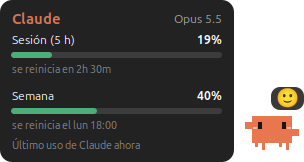
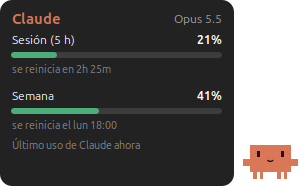
Cara expresiva en el muñeco (7 niveles), globito solo al hablar, más legible y con último mensaje en la tarjeta

diff --git a/claude-meter.py b/claude-meter.py
@@ -29,11 +29,11 @@ DATA = os.path.expanduser("~/.cache/claude-meter.json")
 ACTIVITY = os.path.expanduser("~/.cache/claude-meter-activity.json")  # lo escribe activity.py (hooks)
 WORK_STALE = 10 * 60    # "trabajando" sin eventos nuevos por más de esto: probablemente se cortó
 ASK_STALE = 2 * 3600    # una pregunta sin responder deja de mostrarse pasado esto
-ACTIVITY_TEXT = {"work": "Trabajando…", "ask": "Tengo una duda…"}
+ACTIVITY_TEXT = {"ask": "Tengo una duda…"}  # trabajando ya se ve: teclea
 
 # el muñeco "ve" lo que haces y comenta (se puede apagar con clic derecho)
 CHAT_EVERY = (150, 300)       # charla espontánea mientras estás: cada 2,5–5 min (al azar)
-CHAT_SHOW = 12                # segundos que se ve cada mensaje
+CHAT_SHOW = 30                # segundos que se ve cada mensaje (se pausa con el mouse encima)
 MIN_GAP = 25                  # nunca dos mensajes seguidos con menos de esto (salvo toque y festejo)
 AWAY_AFTER = 5 * 60           # sin teclado ni mouse por esto: te fuiste
 STREAK_BREAK = 50 * 60        # tiempo seguido frente a la pantalla antes de sugerir una pausa
@@ -119,19 +119,16 @@ FRAME_MS = 80
 LOOP = 6.6  # segundos; todo movimiento de la mascota se repite en este ciclo y así se dibuja una sola vez
 
 # ánimo según el mayor de los dos porcentajes: (hasta %, ánimo)
-MOODS = [(50, "happy"), (75, "ok"), (90, "tired"), (100, "sad")]
+MOODS = [(20, "great"), (40, "happy"), (60, "ok"), (75, "meh"), (90, "tired"), (100, "sad")]
 # carita del globito según el consumo (el mayor de sesión y semana): (hasta %, carita)
-FACES = [(20, "😄"), (40, "😊"), (60, "🙂"), (75, "😐"), (90, "😓"), (100, "😫")]
-FACE_EMPTY = "😵"
-FACE_SLEEP = "😴"
 
 CSS = b"""
 window { background-color: transparent; }
 .card { background-color: rgba(22, 22, 22, 0.95); border-radius: 12px; }
 .head { color: #d97757; font-weight: bold; }
-.bubble { color: #ffffff; font-size: 9pt; font-weight: bold; background-color: rgba(22, 22, 22, 0.85);
-          border-radius: 9px; padding: 2px 8px; }
-.bubble.face { font-size: 14pt; padding: 0 5px; }
+.bubble { color: #ffffff; font-size: 11pt; font-weight: bold; background-color: rgba(28, 28, 28, 0.97);
+          border: 2px solid #d97757; border-radius: 10px; padding: 5px 10px; }
+.lastmsg { color: #e8e8e8; font-size: 9pt; }
 .model { color: #a7a7a7; font-size: 9pt; }
 .name { color: #ffffff; font-size: 9pt; }
 .pct { color: #ffffff; font-weight: bold; font-size: 9pt; }
@@ -161,39 +158,61 @@ def until(epoch):
     return "{}h {:02d}m".format(h, m) if h else "{} min".format(m)
 
 
+# cara de cada ánimo: ojos, boca, cejas y extras (como un emoji, pero en el muñeco)
+FACE = {
+    "great": dict(eyes="arc", mouth="grin", blush=True),            # 😄
+    "happy": dict(eyes="round", mouth="smile", blush=True),         # 😊
+    "ok":    dict(eyes="round", mouth="small"),                     # 🙂
+    "meh":   dict(eyes="round", mouth="flat"),                      # 😐
+    "tired": dict(eyes="half", mouth="wavy", sweat=True),           # 😓
+    "sad":   dict(eyes="round", mouth="frown", brows="sad", tear=True),  # 😫
+    "empty": dict(eyes="x", mouth="wavy"),                          # 😵
+    "sleep": dict(eyes="closed", mouth="o"),                        # 😴
+    "work":  dict(eyes="down", mouth="small"),                      # concentrado
+    "ask":   dict(eyes="up", mouth="o", brows="raised"),            # pensando
+    "wave":  dict(eyes="arc", mouth="talk", blush=True),            # hablando
+}
+COLORS = {"great": "#ef7d52", "happy": "#e8774f", "ok": "#d97757", "meh": "#d08062", "tired": "#c98463",
+          "sad": "#b58c79", "empty": "#978a84", "sleep": "#b58c79"}
+
+
 def mascot_svg(mood, t, px=MASCOT, crop=True, tint="ok"):
     """Un cuadro del muñequito pixelado de Claude Code, en una caja de 56x56.
 
-    Rejilla de 18x5 celdas: cuerpo, dos ojitos, bracitos a los lados y cuatro patitas.
-    mood "work" (teclea) y "ask" (tiene una duda) toman el color del ánimo de uso que indica tint.
+    Rejilla de 18x5 celdas: cuerpo, dos ojitos, bracitos a los lados y cuatro patitas, más una cara
+    (cejas, boca, rubor, sudor, lágrima) que cambia con el ánimo.
+    mood "work" (teclea), "ask" (duda) y "wave" (habla) toman el color del ánimo de uso que indica tint.
     """
     ux, uy = 3, 6               # cada pixel es el doble de alto que de ancho, como las celdas de la terminal
     w = 2 * math.pi / LOOP      # frecuencias enteras de w: el ciclo cierra sin saltos
-    lively = mood in ("happy", "wave")
-    hop = -abs(math.sin(w * 3 * t)) * 5 if lively else 0
-    sway = round(math.sin(w * 2 * t)) * 0.5 if mood == "ok" else 0
+    lively = mood in ("great", "happy", "wave")
+    droopy = mood in ("tired", "sad", "empty")
+    hop = -abs(math.sin(w * 3 * t)) * (5 if mood != "happy" else 3) if lively else 0
+    sway = round(math.sin(w * 2 * t)) * 0.5 if mood in ("ok", "meh") else 0
     sink = {"tired": 2, "sad": 3, "empty": 5, "sleep": 3}.get(mood, 0)
-    breathe = math.sin(w * t * (1 if mood in ("sad", "empty", "sleep") else 2)) * 0.4
+    breathe = math.sin(w * t * (1 if droopy or mood == "sleep" else 2)) * 0.4
     x0 = 1 + sway * ux
     y0 = 14 + hop + sink
-    # se apaga el color a medida que se cansa
-    colors = {"happy": "#e8774f", "ok": "#d97757", "tired": "#c98463", "sad": "#b58c79",
-              "empty": "#978a84", "sleep": "#b58c79"}
-    color = colors.get(mood) or colors.get(tint, colors["ok"])
+    color = COLORS.get(mood) or COLORS.get(tint, COLORS["ok"])
     tap = math.sin(w * 22 * t) > 0  # alterna manos al teclear
     if mood == "work":
         y0 += 0.5 if tap else 0
-    hole = "#161616"
+    ink = "#161616"
+    face = FACE[mood]
 
     def px_rect(cx, cy, cw=1, ch=1, fill=None, extra=""):
         return '<rect x="{:.2f}" y="{:.2f}" width="{:.2f}" height="{:.2f}" fill="{}"{}/>'.format(
             x0 + cx * ux, y0 + cy * uy, cw * ux, ch * uy, fill or color, extra)
 
+    def stroke(d, width=1.2, fill="none"):
+        return ('<path d="{}" stroke="{}" stroke-width="{}" stroke-linecap="round" stroke-linejoin="round" '
+                'fill="{}" shape-rendering="geometricPrecision"/>').format(d, ink, width, fill)
+
     parts = [
         px_rect(3, 0 - breathe / uy, 12, 2 + breathe / uy),  # cabeza (respira estirándose un poco)
         px_rect(3, 2, 12, 2),                               # cuerpo
     ]
-    # bracitos: arriba saludando si está feliz, abajo si está decaído
+    # bracitos: arriba saludando si está contento, abajo si está decaído
     if lively:
         up = math.sin(w * (12 if mood == "wave" else 6) * t) > 0
         parts += [px_rect(1, 1 if up else 2, 2), px_rect(15, 2 if up else 1, 2)]
@@ -201,42 +220,85 @@ def mascot_svg(mood, t, px=MASCOT, crop=True, tint="ok"):
         parts += [px_rect(1.5, 2.7 if tap else 3.1, 1.5), px_rect(15, 3.1 if tap else 2.7, 1.5)]
     elif mood == "ask":    # una mano rascándose la cabeza
         scratch = math.sin(w * 8 * t) * 0.12
-        parts += [px_rect(1, 2, 2),
-                  px_rect(16, 0.9, 1, 1.6),                       # brazo hacia arriba
-                  px_rect(14.6, 0.35 + scratch, 2.4, 0.55)]       # mano sobre la cabeza
-    elif mood in ("sad", "empty", "tired"):
+        parts += [px_rect(1, 2, 2), px_rect(16, 0.9, 1, 1.6), px_rect(14.6, 0.35 + scratch, 2.4, 0.55)]
+    elif droopy:
         parts += [px_rect(1.5, 3, 1.5), px_rect(15, 3, 1.5)]
     else:
         parts += [px_rect(1, 2, 2), px_rect(15, 2, 2)]
-    # patitas: caminan cuando está feliz, quietas si no
+    # patitas: caminan cuando está contento, quietas si no
     step = lively and math.sin(w * 6 * t) > 0
     for i, cx in enumerate((4, 6, 11, 13)):
         lift = 0.3 if step and i % 2 == 0 else 0
         parts.append(px_rect(cx, 4 - lift, 1, 1))
 
-    # ojos: huecos en la cabeza
+    # ---- cara ----
+    cx = x0 + 9 * ux                 # centro horizontal de la cara
+    ey = y0 + 1.3 * uy               # altura de los ojos
+    my = y0 + 2.25 * uy              # altura de la boca
     blink = (t % (LOOP / 2)) < 0.15
+    eyes = "closed" if blink and face["eyes"] in ("round", "half", "down", "up") else face["eyes"]
     for ex in (5, 12):
-        if mood == "sleep" or (blink and mood in ("happy", "wave", "ok", "tired", "work", "ask")):
-            parts.append(px_rect(ex, 1.65, 1, 0.2, hole))
-        elif mood == "tired":
-            parts.append(px_rect(ex, 1.4, 1, 0.6, hole))
-        elif mood == "work":   # mirando el teclado
-            parts.append(px_rect(ex, 1.3, 1, 0.7, hole))
-        elif mood == "ask":    # mirando hacia arriba, pensando
-            parts.append(px_rect(ex + 0.3, 0.45, 1, 0.8, hole))
-        elif mood == "empty":
-            cx, cy = x0 + (ex + 0.5) * ux, y0 + 1.5 * uy
-            parts.append('<path d="M{0:.2f} {1:.2f} l{2} {2} M{3:.2f} {1:.2f} l-{2} {2}" stroke="{4}" '
-                         'stroke-width="1" stroke-linecap="round"/>'.format(cx - 1.6, cy - 1.6, 3.2, cx + 1.6, hole))
-        else:
-            parts.append(px_rect(ex, 1, 1, 1, hole))
-    if lively:  # cachetes
-        parts += [px_rect(3.5, 1.65, 1, 0.3, "#f6b3a6"), px_rect(13.5, 1.65, 1, 0.3, "#f6b3a6")]
-    if mood == "sad":    # lagrimita que cae
+        ecx = x0 + (ex + 0.5) * ux
+        if eyes == "round":
+            parts.append(px_rect(ex, 0.85, 1, 0.9, ink))
+        elif eyes == "arc":          # ^ ^
+            parts.append(stroke("M{:.2f} {:.2f} Q{:.2f} {:.2f} {:.2f} {:.2f}".format(
+                ecx - 2, ey + 1.2, ecx, ey - 2.4, ecx + 2, ey + 1.2), 1.3))
+        elif eyes == "half":         # párpados caídos
+            parts.append(px_rect(ex, 1.2, 1, 0.5, ink))
+            parts.append(stroke("M{:.2f} {:.2f} L{:.2f} {:.2f}".format(ecx - 2.2, ey - 1.2, ecx + 2.2, ey - 1.2), 1))
+        elif eyes == "closed":
+            parts.append(stroke("M{:.2f} {:.2f} Q{:.2f} {:.2f} {:.2f} {:.2f}".format(
+                ecx - 1.8, ey, ecx, ey + 1.4, ecx + 1.8, ey), 1.1))
+        elif eyes == "x":
+            parts.append(stroke("M{0:.2f} {1:.2f} l3.2 3.2 M{2:.2f} {1:.2f} l-3.2 3.2".format(
+                ecx - 1.6, ey - 1.6, ecx + 1.6), 1))
+        elif eyes == "down":         # mirando el teclado
+            parts.append(px_rect(ex, 1.25, 1, 0.55, ink))
+        elif eyes == "up":           # mirando hacia arriba, pensando
+            parts.append(px_rect(ex + 0.3, 0.55, 1, 0.6, ink))
+
+    brows = face.get("brows")
+    if brows == "sad":               # cejas que suben hacia el centro
+        parts.append(stroke("M{:.2f} {:.2f} L{:.2f} {:.2f} M{:.2f} {:.2f} L{:.2f} {:.2f}".format(
+            x0 + 4.6 * ux, y0 + 0.55 * uy, x0 + 6.6 * ux, y0 + 0.25 * uy,
+            x0 + 11.4 * ux, y0 + 0.25 * uy, x0 + 13.4 * ux, y0 + 0.55 * uy), 1))
+    elif brows == "raised":
+        parts.append(stroke("M{:.2f} {:.2f} Q{:.2f} {:.2f} {:.2f} {:.2f}".format(
+            x0 + 11.6 * ux, y0 + 0.3 * uy, x0 + 12.8 * ux, y0 + 0.05 * uy, x0 + 14 * ux, y0 + 0.3 * uy), 1))
+
+    mouth = face["mouth"]
+    if mouth == "talk":              # abre y cierra la boca mientras habla
+        mouth = "grin" if math.sin(w * 30 * t) > 0 else "small"
+    if mouth == "grin":              # sonrisa grande, abierta
+        parts.append(stroke("M{:.2f} {:.2f} Q{:.2f} {:.2f} {:.2f} {:.2f} Z".format(
+            cx - 4, my - 1, cx, my + 4.5, cx + 4, my - 1), 1, ink))
+    elif mouth == "smile":
+        parts.append(stroke("M{:.2f} {:.2f} Q{:.2f} {:.2f} {:.2f} {:.2f}".format(cx - 3.6, my - 0.6, cx, my + 3, cx + 3.6, my - 0.6)))
+    elif mouth == "small":
+        parts.append(stroke("M{:.2f} {:.2f} Q{:.2f} {:.2f} {:.2f} {:.2f}".format(cx - 2.2, my, cx, my + 1.8, cx + 2.2, my)))
+    elif mouth == "flat":
+        parts.append(stroke("M{:.2f} {:.2f} L{:.2f} {:.2f}".format(cx - 2.6, my + 0.6, cx + 2.6, my + 0.6)))
+    elif mouth == "wavy":
+        parts.append(stroke("M{:.2f} {:.2f} q1.3 -1.2 2.6 0 t2.6 0".format(cx - 2.6, my + 0.8), 1.1))
+    elif mouth == "frown":
+        parts.append(stroke("M{:.2f} {:.2f} Q{:.2f} {:.2f} {:.2f} {:.2f}".format(cx - 3.4, my + 2, cx, my - 1, cx + 3.4, my + 2)))
+    elif mouth == "o":
+        parts.append('<ellipse cx="{:.2f}" cy="{:.2f}" rx="1.3" ry="1.5" fill="{}" '
+                     'shape-rendering="geometricPrecision"/>'.format(cx, my + 0.8, ink))
+
+    if face.get("blush"):
+        parts += ['<ellipse cx="{:.2f}" cy="{:.2f}" rx="2" ry="1.1" fill="#f6b3a6" opacity="0.9" '
+                  'shape-rendering="geometricPrecision"/>'.format(x0 + bx * ux, y0 + 2.05 * uy) for bx in (4.2, 13.8)]
+    if face.get("sweat"):            # gotita de sudor en la frente
+        sx, sy = x0 + 14.2 * ux, y0 + 0.3 * uy + (t / LOOP * 2 % 1) * 3
+        parts.append('<path d="M{0:.2f} {1:.2f} q-1.6 2.6 0 3.4 q1.6 -0.8 0 -3.4 Z" fill="#7cc4f0" '
+                     'shape-rendering="geometricPrecision"/>'.format(sx, sy))
+    if face.get("tear"):             # lagrimita que cae
         drop = t / LOOP * 4 % 1
-        parts.append(px_rect(5.2, 2 + drop * 2.5, 0.6, 0.3, "#6db3e8",
-                             ' opacity="{:.2f}"'.format(1 - drop)))
+        parts.append('<ellipse cx="{:.2f}" cy="{:.2f}" rx="0.9" ry="1.3" fill="#6db3e8" opacity="{:.2f}" '
+                     'shape-rendering="geometricPrecision"/>'.format(x0 + 5.5 * ux, ey + 3 + drop * 10, 1 - drop))
+
     if mood == "work":   # teclado delante, tapando las patitas, con teclas que se iluminan
         parts.append(px_rect(2, 3.35, 14, 0.95, "#3a3a3a"))
         lit = {(int(t * 10) * 7) % 22, (int(t * 10) * 13 + 5) % 22}
@@ -283,7 +345,9 @@ class Meter(Gtk.Window):
         self.config = load_json(CONF, {})
         self.save_pos_id = 0
         self.mood = "sleep"
-        self.mood_text = FACE_SLEEP
+        self.mood_text = ""
+        self.last_msg = None    # (texto, cuándo): queda en la tarjeta por si no lo viste
+        self.hovering = False
         self.activity = None  # "work", "ask" o None
         self.data = None
         self.last_seen = 0      # último momento en que se usó Claude Code
@@ -465,10 +529,15 @@ class Meter(Gtk.Window):
         self.week = self._limit_row(box, "Semana")
         self.foot = self._label("foot")
         box.pack_start(self.foot, False, False, 2)
+        self.last_lbl = self._label("lastmsg")
+        self.last_lbl.set_line_wrap(True)
+        self.last_lbl.set_max_width_chars(30)
+        box.pack_start(self.last_lbl, False, False, 2)
         root.show_all()
 
     # ---------- detalle al pasar el mouse ----------
     def _on_enter(self, widget, event):
+        self.hovering = True
         if self.dragging:
             return False
         if self.hide_id:
@@ -481,6 +550,7 @@ class Meter(Gtk.Window):
     def _on_leave(self, widget, event):
         # al entrar a un hijo también llega un "leave": ese no cuenta
         if event.detail != Gdk.NotifyType.INFERIOR and not self.hide_id:
+            self.hovering = False
             self.hide_id = GLib.timeout_add(300, self._hide_details)
         return False
 
@@ -539,7 +609,7 @@ class Meter(Gtk.Window):
     def _on_release(self, widget, event):
         if event.button == 1 and self.press:
             self.press = None
-            self._say(random.choice(POKE_LINES), 3, force=True)
+            self._say(random.choice(POKE_LINES), 5, force=True)
         return False
 
     def _toggle_chatty(self, item):
@@ -557,6 +627,7 @@ class Meter(Gtk.Window):
         self.chat_text = text
         self.chat_until = now + seconds
         self.last_said = now
+        self.last_msg = (text, now)
         self.next_chat = max(self.next_chat, now + random.randint(*CHAT_EVERY))
         self._update_bubble()
         return True
@@ -613,6 +684,8 @@ class Meter(Gtk.Window):
     def _brain(self, now):
         """Cada segundo: mira si estás, qué usas, qué suena y qué hace Claude, y decide si comentar."""
         self.ticks += 1
+        if self.chat_text and self.hovering:  # con el mouse encima no se va: da tiempo a leer
+            self.chat_until = max(self.chat_until, now + 3)
         if self.chat_text and now >= self.chat_until:
             self.chat_text = None
             self._update_bubble()
@@ -711,7 +784,7 @@ class Meter(Gtk.Window):
                 self.long_said = False
             self.activity = activity
             if finished:  # Claude terminó una tarea: festejo corto
-                self._say(random.choice(DONE_LINES), 6, force=True)
+                self._say(random.choice(DONE_LINES), 12, force=True)
             self._update_bubble()
         self._brain(now)
         return True
@@ -719,19 +792,20 @@ class Meter(Gtk.Window):
     def _update_bubble(self):
         chat = self.chat_text if time.time() < self.chat_until else None
         # una pregunta de Claude manda; luego lo que el muñeco dice; luego qué hace
+        # el ánimo ya se ve en la cara del muñeco: el globito solo aparece cuando hay algo que decir
         if self.activity == "ask":
             text = ACTIVITY_TEXT["ask"]
         else:
-            text = chat or ACTIVITY_TEXT.get(self.activity) or (FACE_SLEEP if self.away else self.mood_text)
+            text = chat or ("" if self.away else self.mood_text)
         self.mood_lbl.set_text(text)
-        # solo carita: más grande
-        ctx = self.mood_lbl.get_style_context()
-        ctx.add_class("face") if len(text) <= 2 else ctx.remove_class("face")
+        self.mood_lbl.set_visible(bool(text))
+        if self.last_msg:
+            self.last_lbl.set_text("💬 {} · {}".format(self.last_msg[0], ago(self.last_msg[1])))
 
     def _set_mood(self, data):
         if not data:
             self.mood = "sleep"
-            self.mood_text = FACE_SLEEP
+            self.mood_text = ""
             self._update_bubble()
             return
         now = time.time()
@@ -739,10 +813,10 @@ class Meter(Gtk.Window):
                 if w and w.get("resets_at", 0) > now]
         used = max([float(w.get("used_percentage") or 0) for w in live] or [0])
         self.mood = next((m for limit, m in MOODS if used < limit), "empty")
-        text = next((face for limit, face in FACES if used < limit), FACE_EMPTY)
-        if self.mood == "empty":
+        text = ""  # sin nada que decir: solo la cara
+        if self.mood == "empty":  # agotado: esto sí conviene tenerlo a la vista
             full = min(w["resets_at"] for w in live if float(w.get("used_percentage") or 0) >= 100)
-            text += (" vuelvo en " if full - now < 86400 else " vuelvo el ") + until(full)
+            text = ("Agotado · vuelvo en " if full - now < 86400 else "Agotado · vuelvo el ") + until(full)
         self.mood_text = text
         self._update_bubble()
 

diff --git a/README.md b/README.md
@@ -2,12 +2,13 @@
 
 ![El muñequito con su carita y la tarjeta de uso abierta al pasar el mouse](docs/captura.png)
 
-Widget pequeño para Linux que se queda **siempre encima** de las demás ventanas. En reposo solo se ve el muñequito, sin fondo, con un globito con una **carita que cambia según tu consumo** (😄 → 😊 → 🙂 → 😐 → 😓 → 😫 → 😵, y 😴 si te fuiste); **al pasar el mouse** aparece cuánto llevas usado de tu plan de Claude:
+Widget pequeño para Linux que se queda **siempre encima** de las demás ventanas. En reposo solo se ve el muñequito, sin fondo, con **su cara cambiando según tu consumo**, como un emoji: ojos ^^ y boca abierta (😄), sonrisa con rubor (😊), 🙂, boca recta (😐), párpados caídos y gotita de sudor (😓), cejas tristes y lagrimita (😫), ojos en X (😵) y dormido si te fuiste (😴). El globito solo aparece cuando tiene algo que decir; **al pasar el mouse** aparece cuánto llevas usado de tu plan de Claude:
 
 - **Sesión (5 h)** y **Semana**: porcentaje usado, barra (verde → ámbar desde 60 % → rojo desde 85 %) y cuándo se reinicia
 - el **muñequito pixelado de Claude Code**, animado, que cambia de ánimo según el uso: feliz saltando y saludando con poco (< 50 %), tranquila (< 75 %), cansada (< 90 %), triste con lagrimita (< 100 %) y agotada al llegar al límite, con la hora en que vuelve
 - **mientras Claude trabaja** el muñeco teclea ("Trabajando…") y **cuando te pregunta algo o pide permiso** se rasca la cabeza con un signo de pregunta ("Tengo una duda…")
 - **comenta lo que haces**, como si te viera: cuando cambias de programa ("¡A programar! 💻", "Modo hacker activado 😎"), cuando cambia la canción en Spotify ("🎵 Buen tema: …"), cuando te vas ("Zzz… te espero", se duerme) y cuando vuelves ("¡Volviste! 👋"); si llevas 50 min seguidos te sugiere una pausa, y avisa al cruzar 50/75/90 % de la sesión
+- los mensajes se ven 30 s (con el mouse encima no se van) y el último queda en la tarjeta, por si no lo viste
 - además, cada 2,5–5 min suelta una frase de **motivación** ("Paso a paso se llega lejos", "Hecho es mejor que perfecto"), de **cuidado** ("¿Tomaste agua? 💧") o una **pregunta** ("¿Cuál es la meta de hoy?"); se apaga con clic derecho → *Que me hable cuando no lo uso*
 - **cuando Claude termina una tarea** te felicita ("¡Listo! Buen trabajo 💪", "¡Misión cumplida!")
 - **un clic** sobre el muñeco y reacciona ("¡Ey!", "¡Jaja, cosquillas!")
